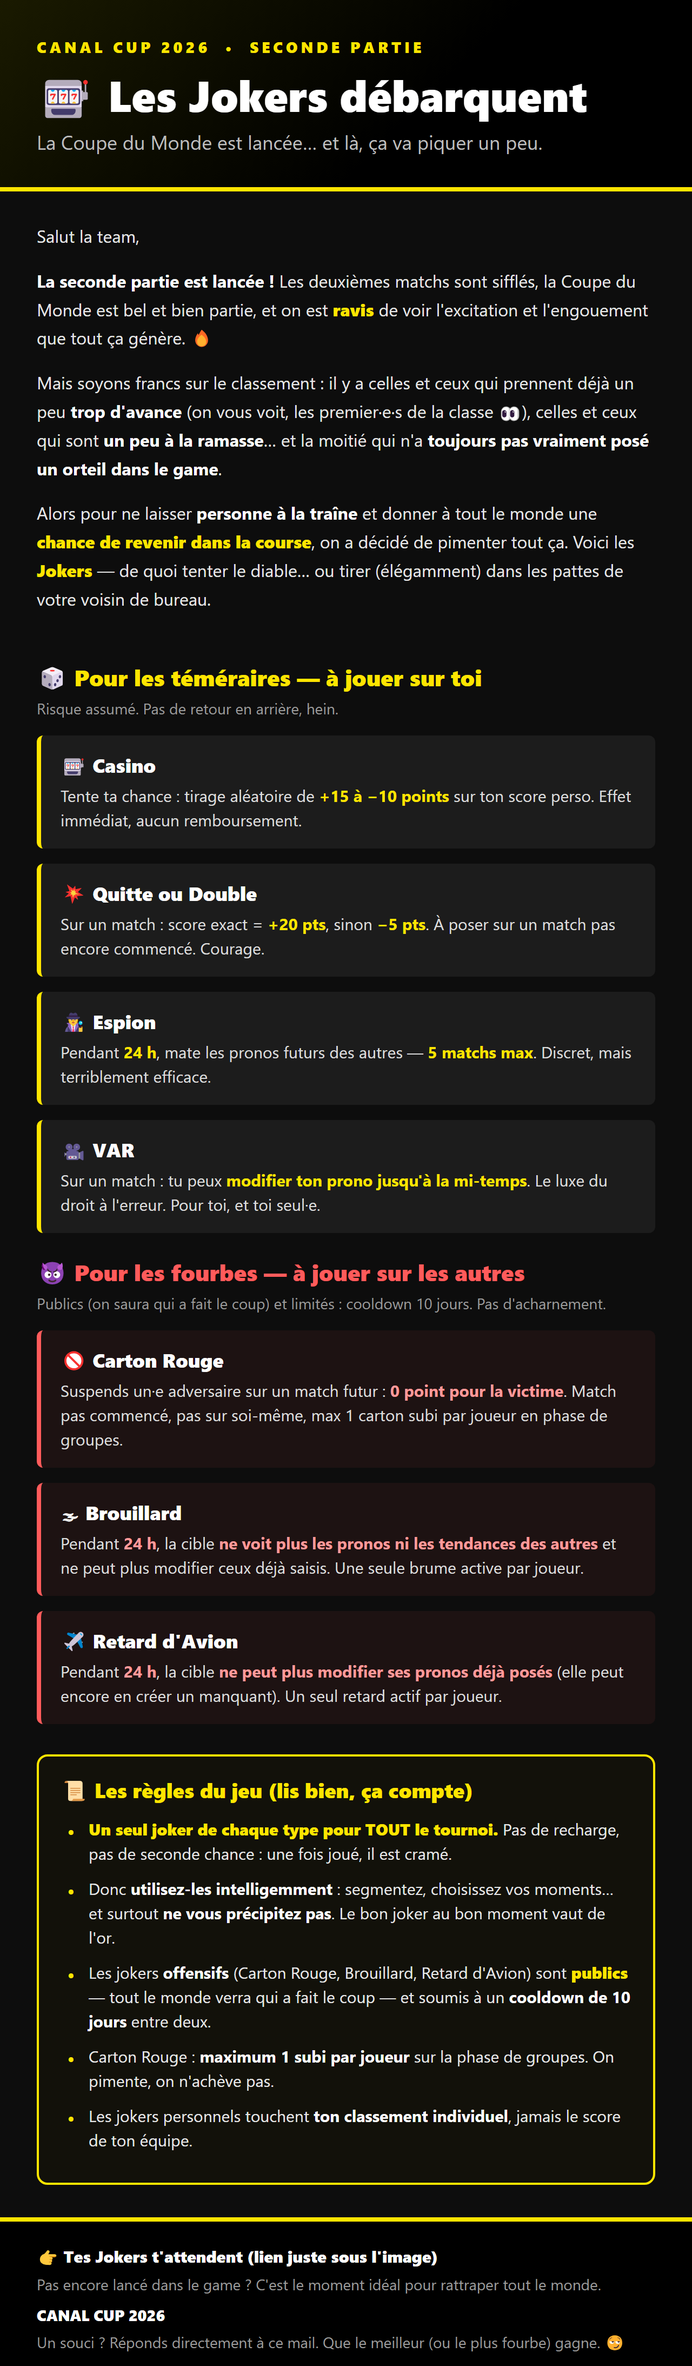
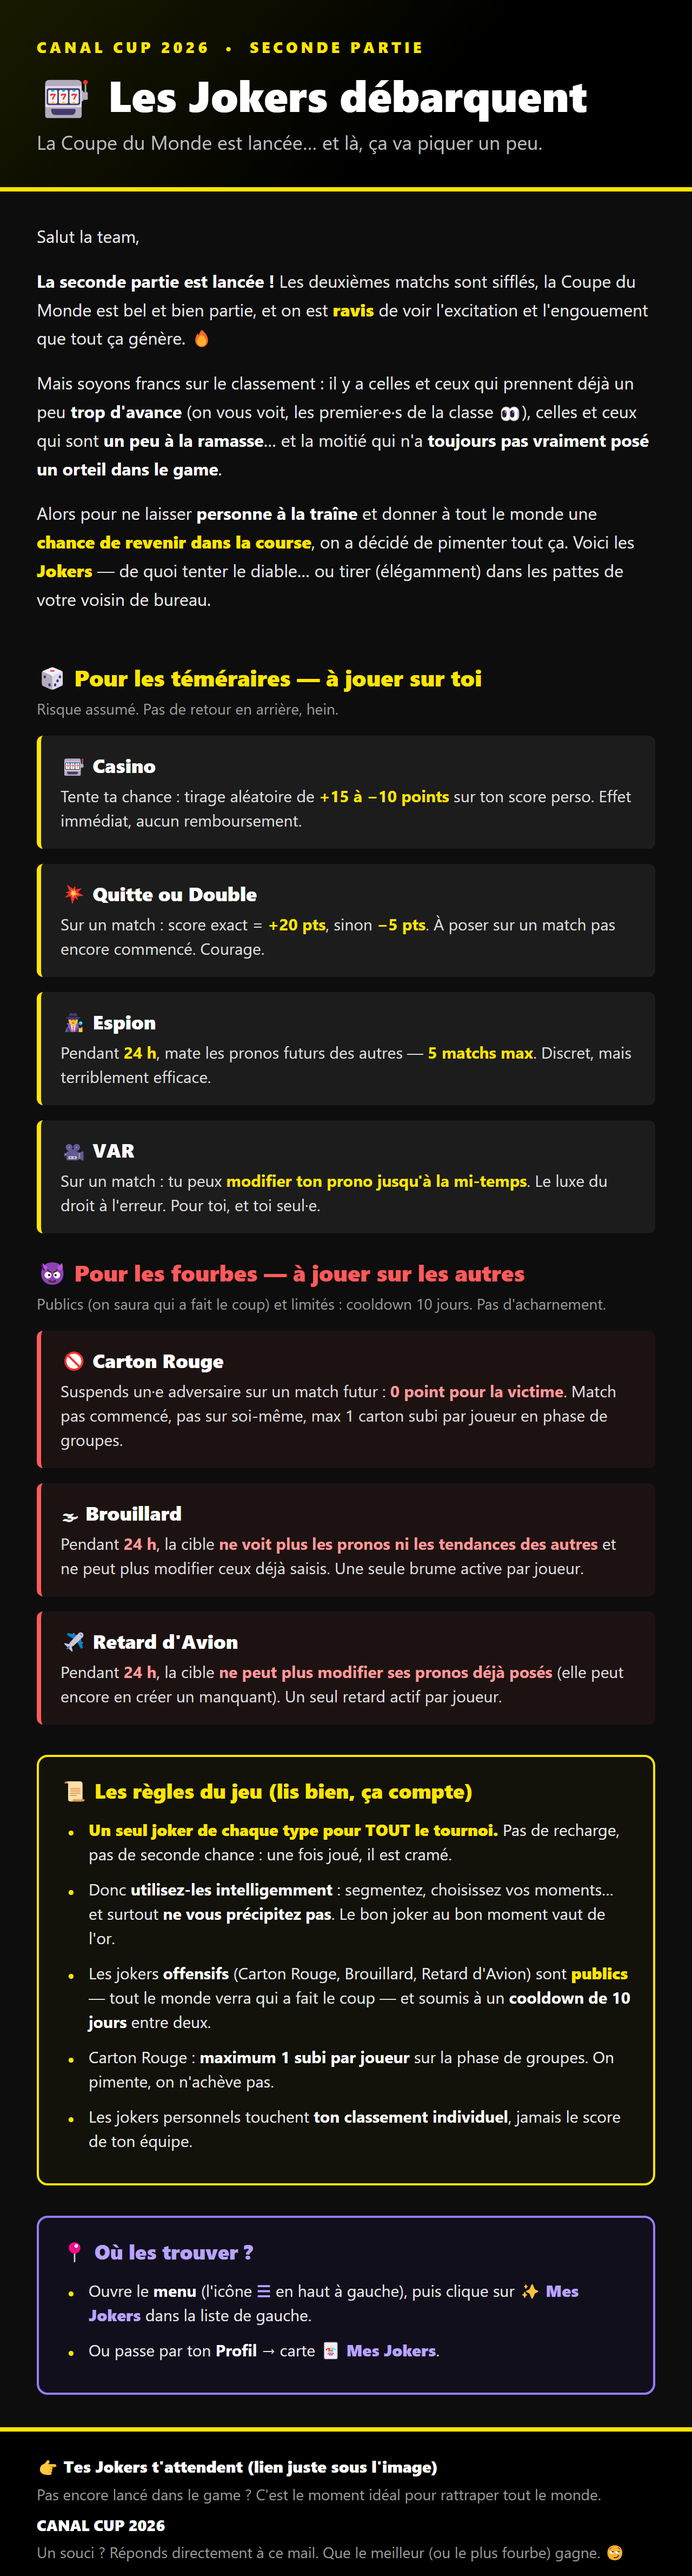
docs(presentation): mail Jokers — bloc "Ou les trouver" (menu lateral)
Ajout d'un encart indiquant l'acces : menu ☰ > ✨ Mes Jokers, ou
Profil > carte 🃏 Mes Jokers. Image regeneree + .txt a jour.

diff --git a/presentation/mail-canalcup-jokers.source.html b/presentation/mail-canalcup-jokers.source.html
@@ -143,6 +143,14 @@
     </ul>
   </div>
 
+  <div class="rules" style="border-color:#9a7bff;background:#120f1c;">
+    <div class="rt" style="color:#b9a3ff;">📍 Où les trouver ?</div>
+    <ul>
+      <li>Ouvre le <b>menu</b> (l'icône <span class="hl" style="color:#b9a3ff;">☰</span> en haut à gauche), puis clique sur <span class="hl" style="color:#b9a3ff;">✨ Mes Jokers</span> dans la liste de gauche.</li>
+      <li>Ou passe par ton <b>Profil</b> → carte <span class="hl" style="color:#b9a3ff;">🃏 Mes Jokers</span>.</li>
+    </ul>
+  </div>
+
   <div class="foot">
     <div class="ft">👉 Tes Jokers t'attendent (lien juste sous l'image)</div>
     <div class="fb">Pas encore lancé dans le game ? C'est le moment idéal pour rattraper tout le monde.</div>
